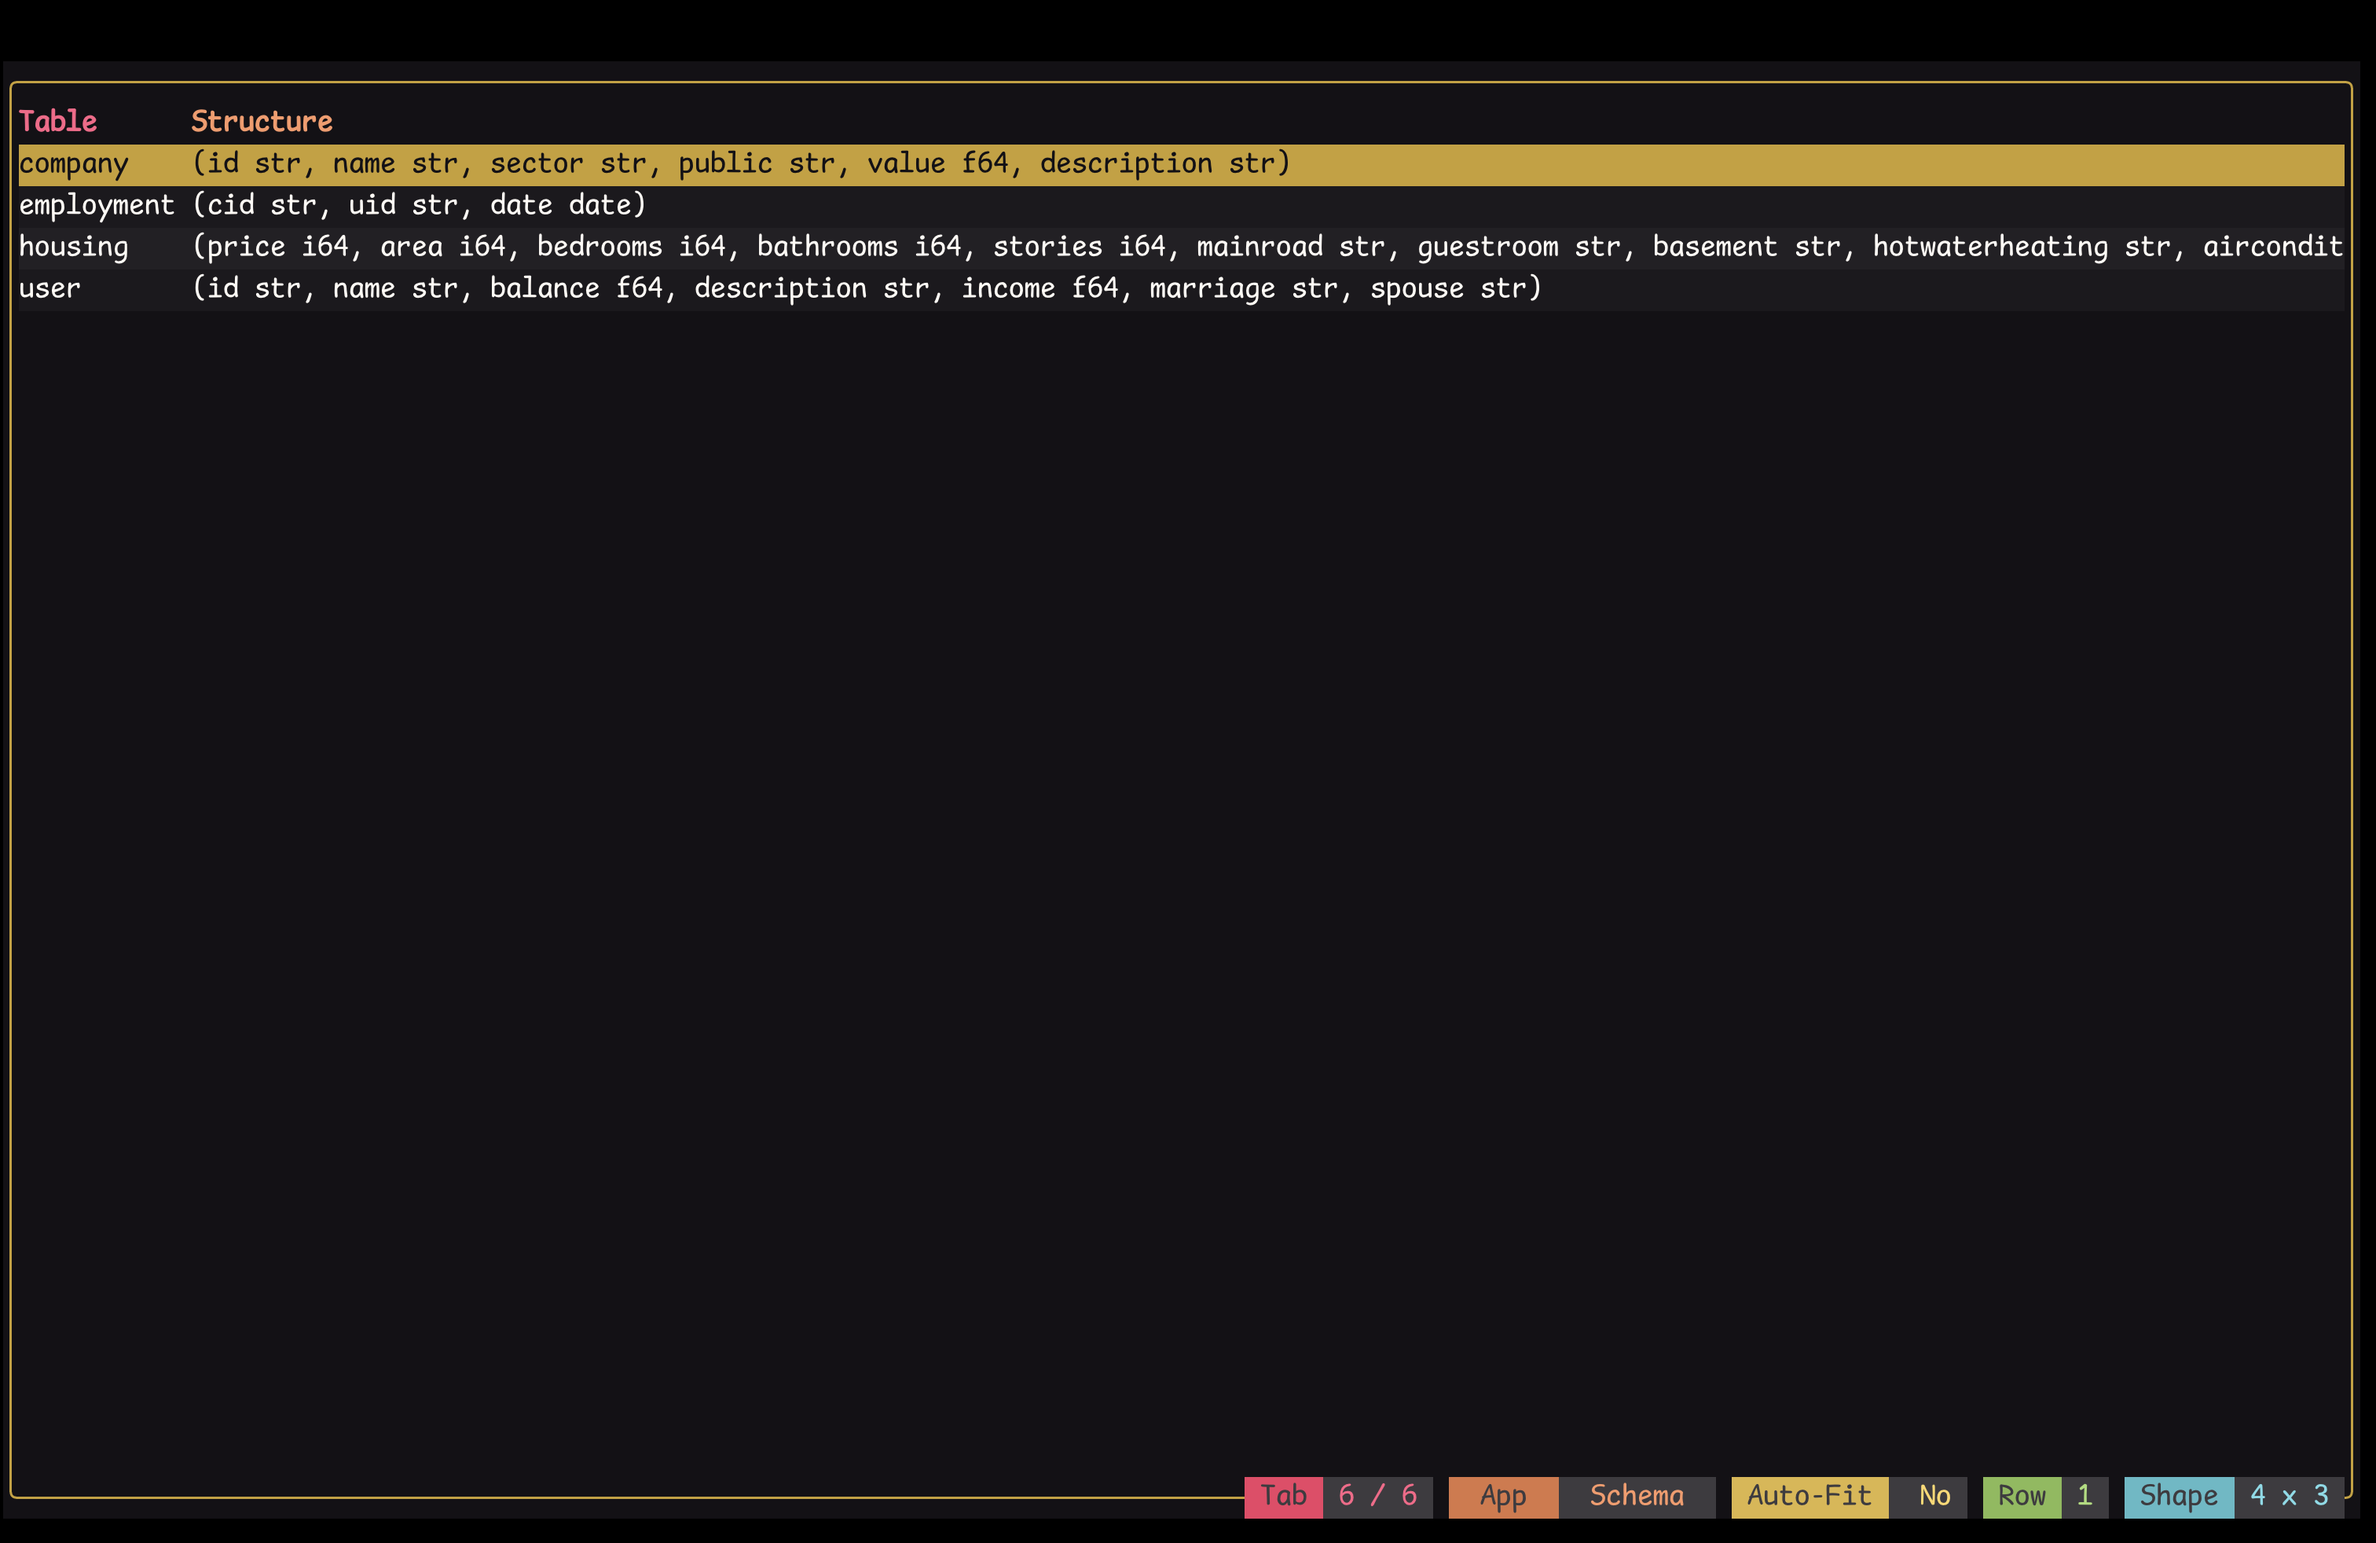
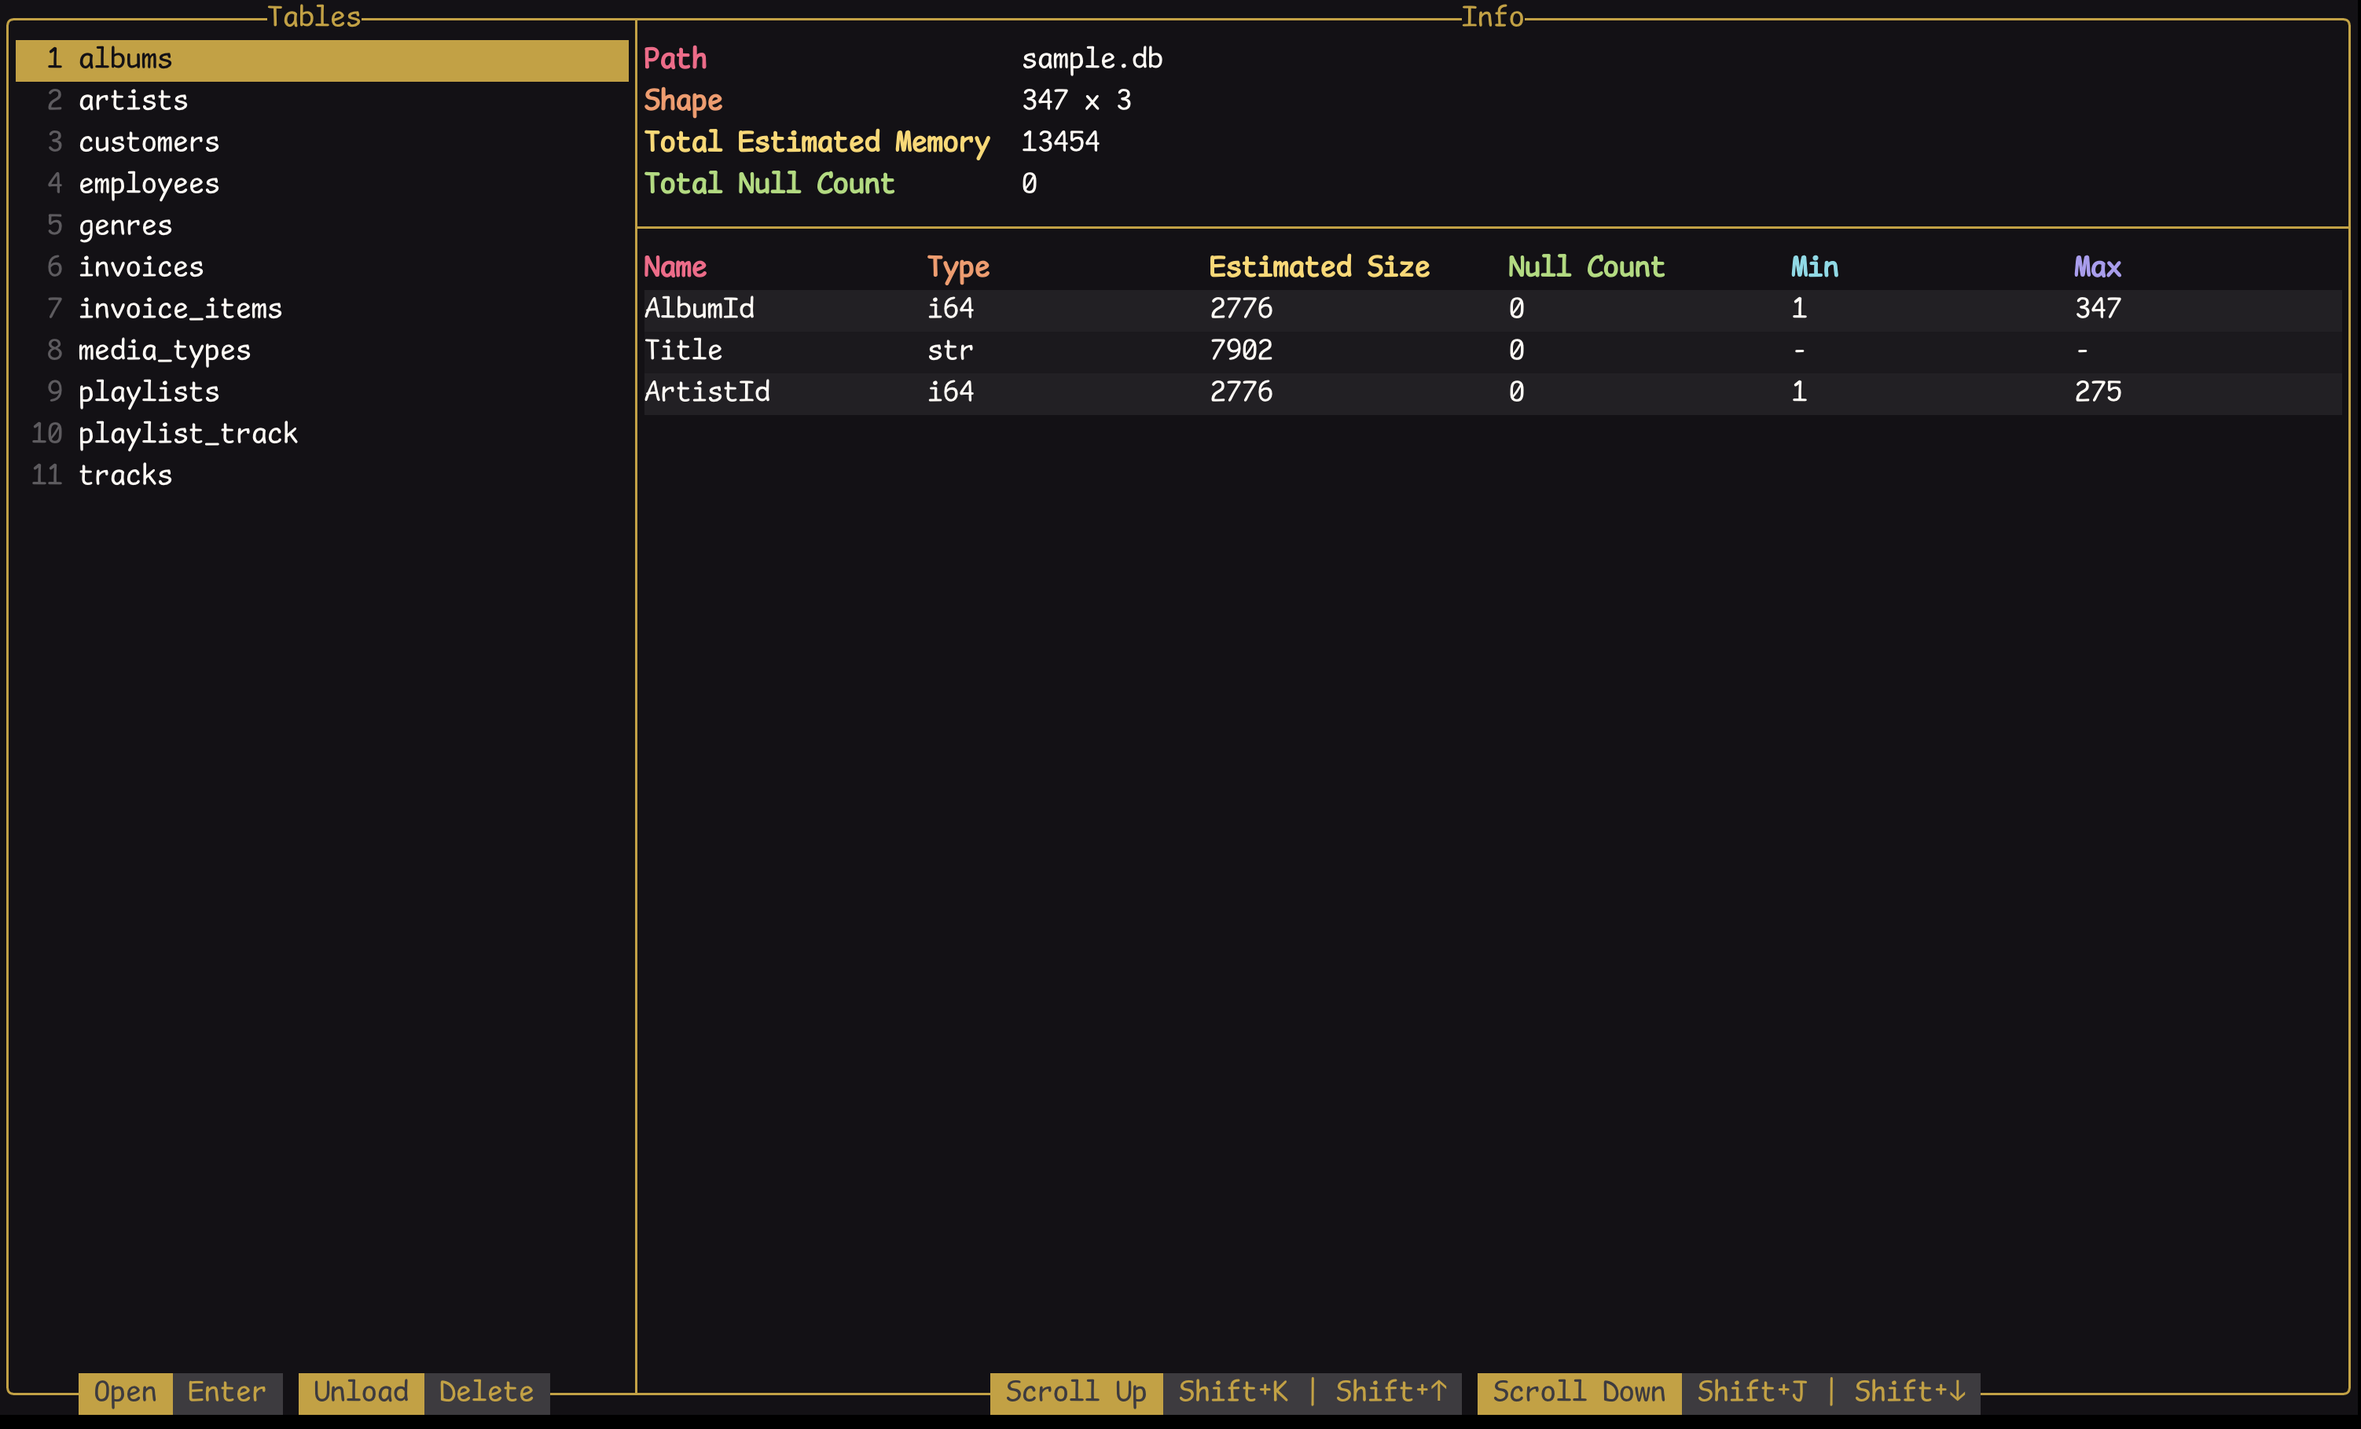
Update tutorial

diff --git a/tutorial/tutorial.md b/tutorial/tutorial.md
@@ -123,7 +123,9 @@ tabn SELECT * FROM user WHERE marriage='Married' AND balance < 10000
 
 ![image not found](images/new_tab.png)
 
-The table names are their file names without the extension. For instance, the table name for `housing.csv` is `housing`. If multiple files have the same name, subsequent files will have `_2`, `_3`, and so on appended to their names. The `:schema` command displays all loaded tables.
+## Schema
+
+Table names are chosen based on their file names without the extension. For instance, the table name for `housing.csv` is `housing`. If multiple files have the same name, subsequent files will have `_2`, `_3`, and so on appended to their names. The `:schema` command displays all loaded tables.
 
 ![image not found](images/schema.png)
 
